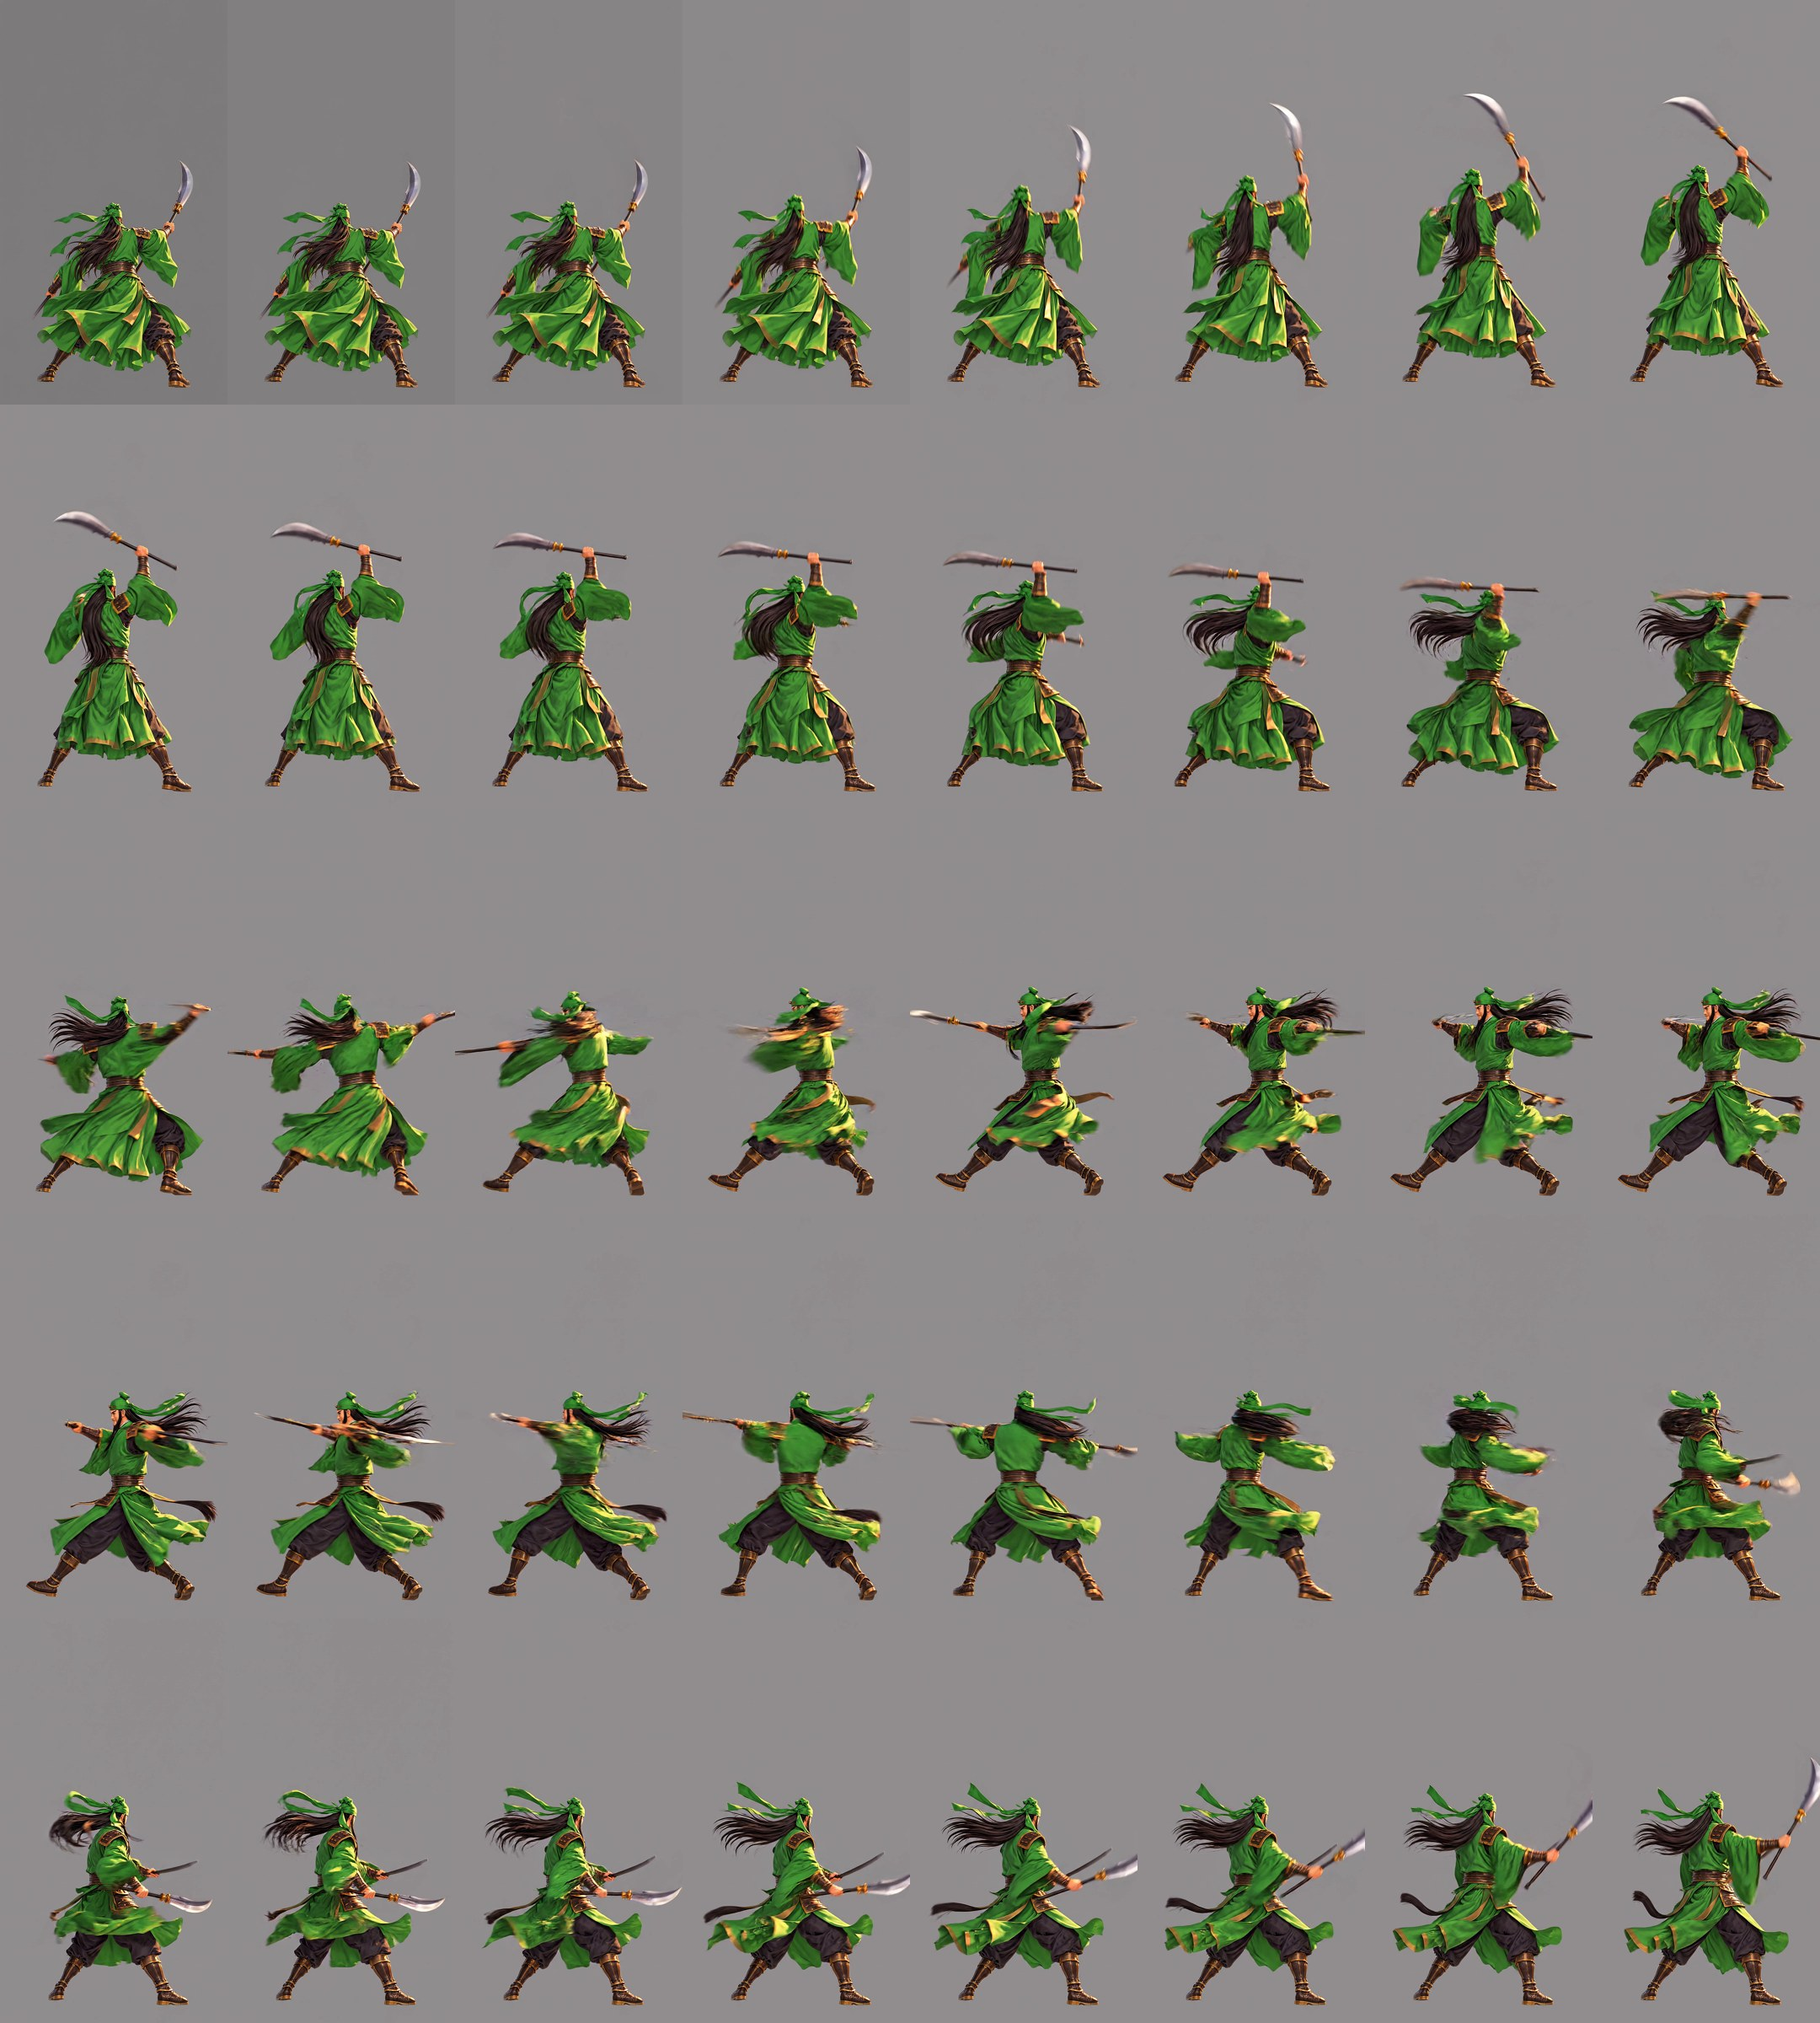
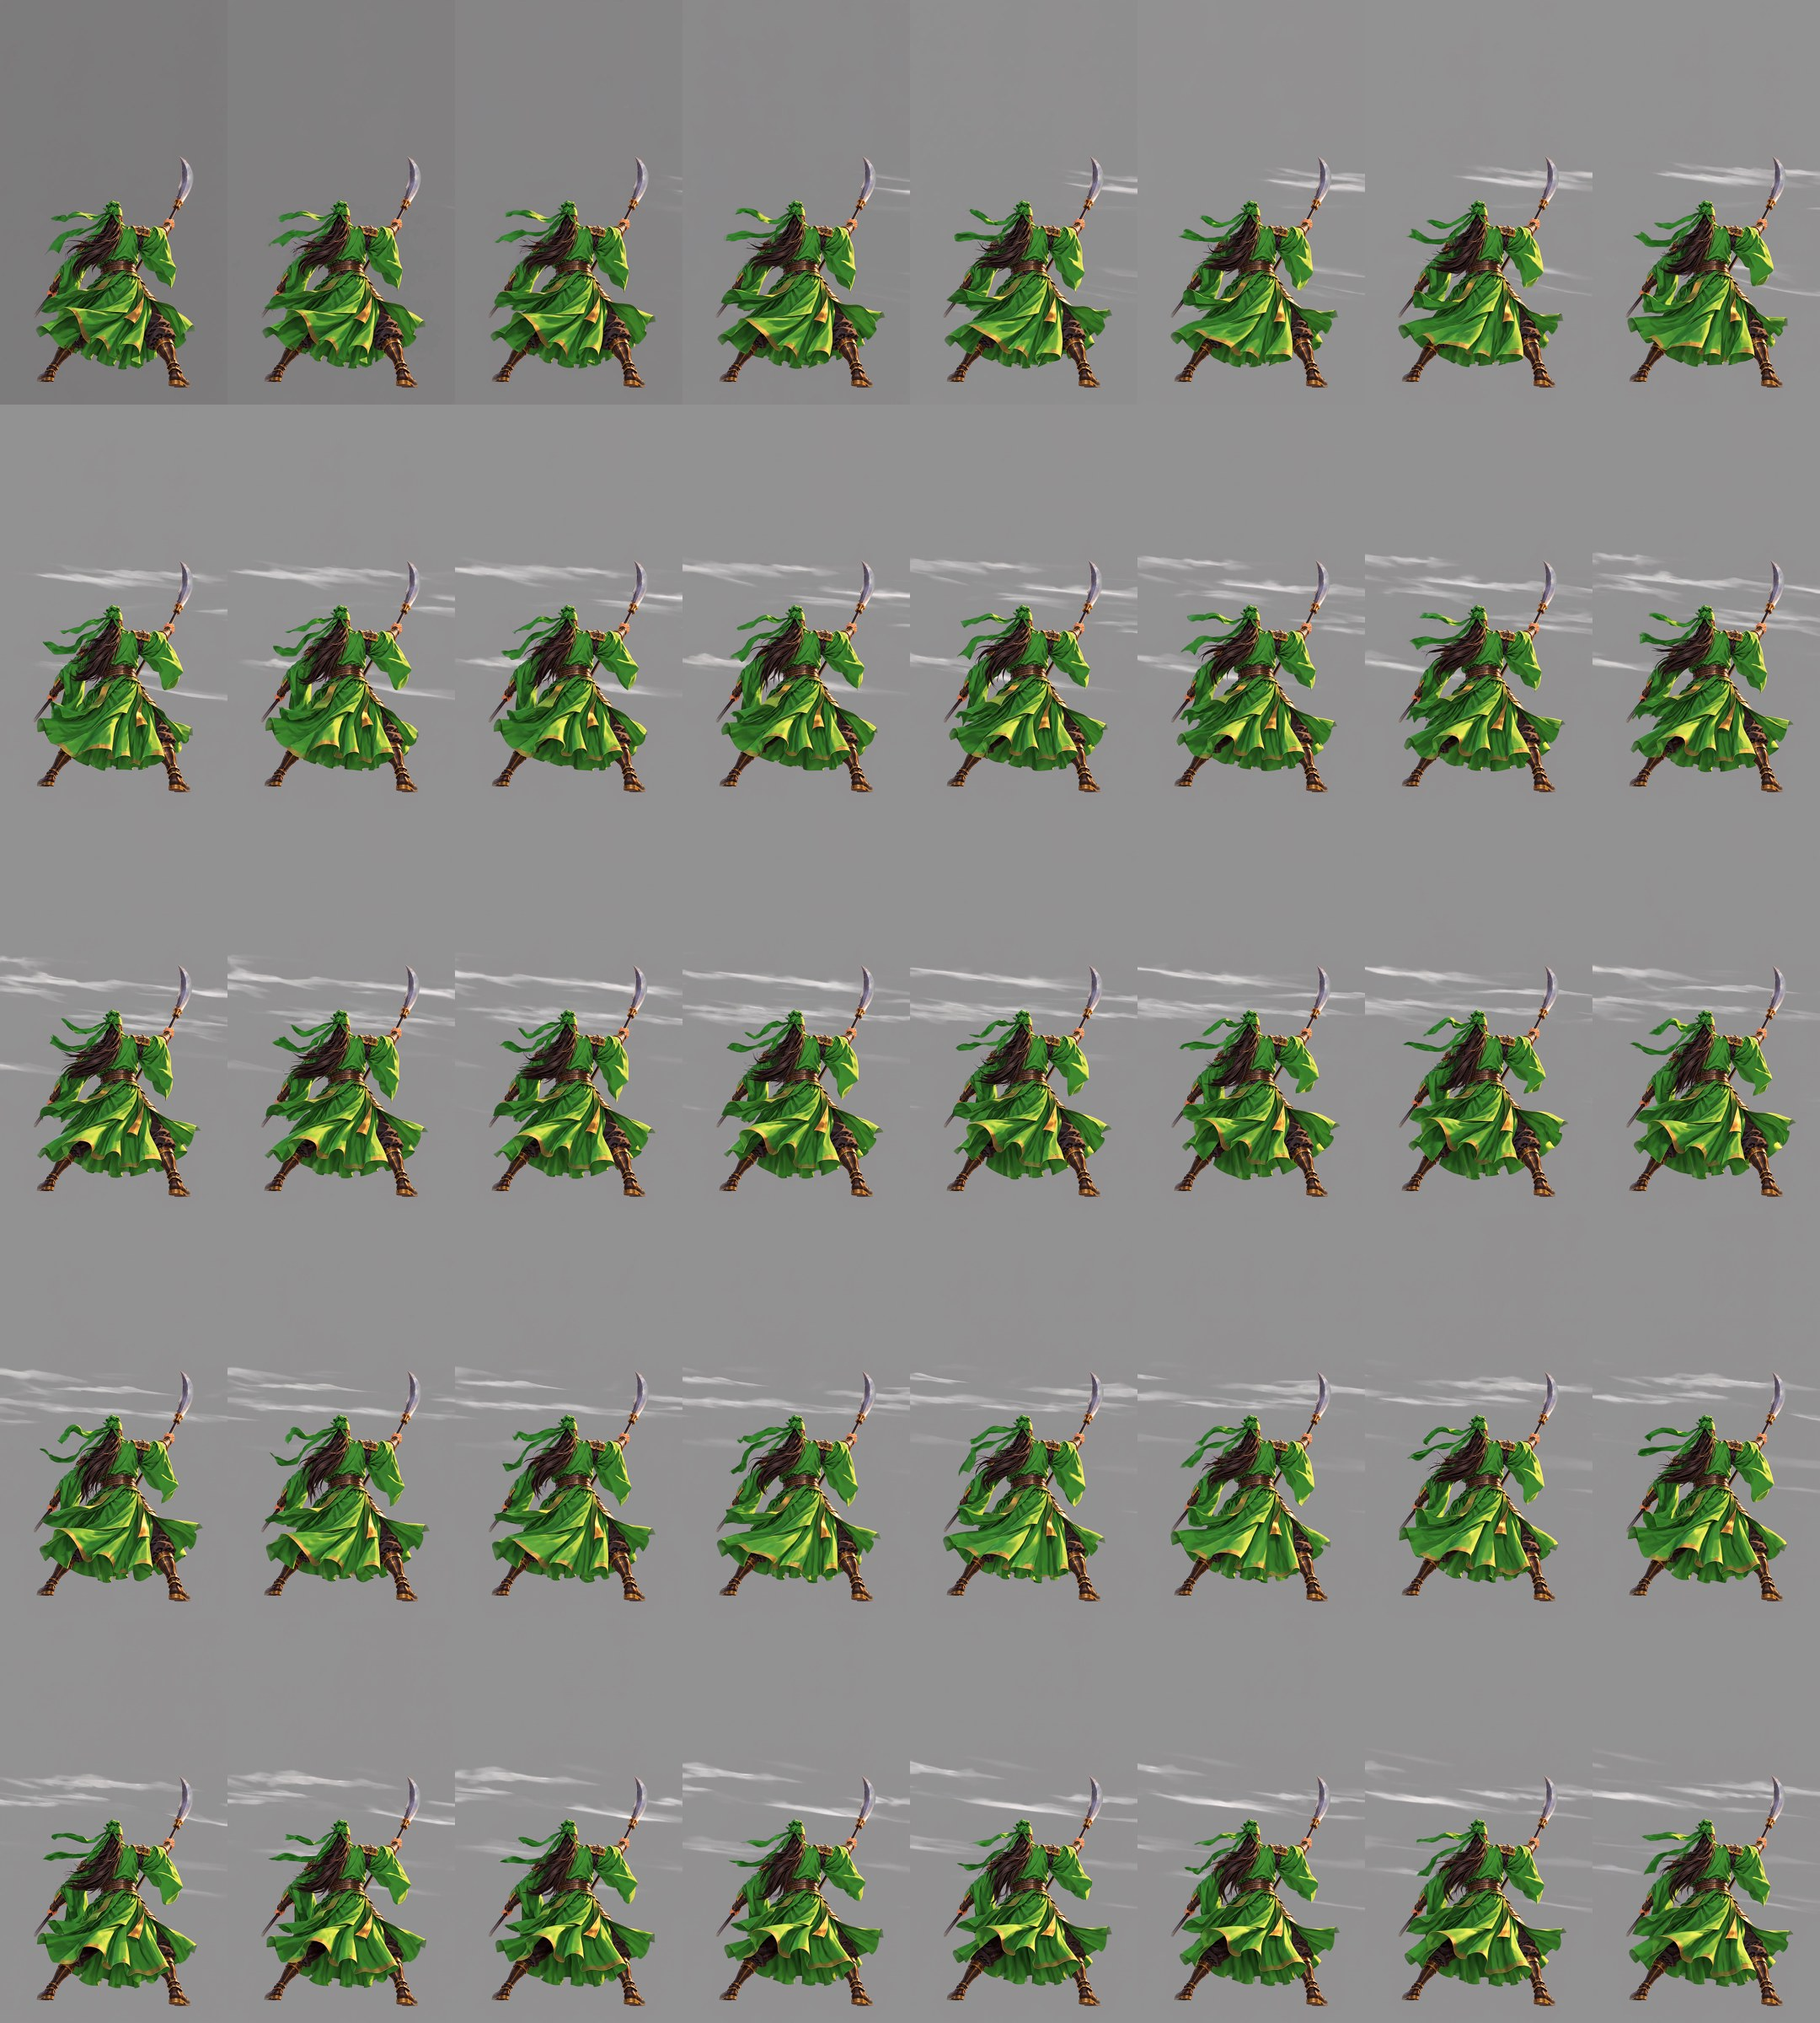
Calm standing idle with wind-blown robes for Liu/Guan/Zhang; per-anim size fix measured from sheets

diff --git a/原型/守关.html b/原型/守关.html
@@ -2131,7 +2131,7 @@ function drawGenerals() {
     if (SHEETS[sk] && ready(IMG[sk])) {
       // 出招演 skill（施法时间加收招 0.2 秒演完 8 帧），普攻演 atk（0.35 秒），平时 idle 来回播
       const nOf = a => SHEETS[sk].anims[a].rects.length;
-      let anim = 'idle', ni = Math.min(3, nOf('idle')), fr = ((G.t * 2.2 + i * 1.3) % (2 * ni - 2)); if (fr > ni - 1) fr = 2 * ni - 2 - fr;   /* 10-27 用户：「待机应该是站立，衣服随风飘扬，不要动来动去像个小丑」——只用开头站定的三帧慢慢来回 */
+      let anim = 'idle', ni = nOf('idle'), fr = ((G.t * 6 + i * 3) % (2 * ni - 2)); if (fr > ni - 1) fr = 2 * ni - 2 - fr;   /* 10-27 用户：「待机应该是站立，衣服随风飘扬，不要动来动去像个小丑」——只用开头站定的三帧慢慢来回 */
       if (casting) { anim = 'skill'; fr = G.cast.t / (G.cast.dur + .2) * (nOf('skill') - .01); }
       else if (an) { anim = an.v && SHEETS[sk].anims[an.v] ? an.v : 'atk'; fr = an.t / atkAnim(id) * (nOf(anim) - .01); }
       const sealed = G.seal[i] > 0, rage = id === 'zhang' && G.rageT > 0;
@@ -4162,7 +4162,7 @@ function drawReward() {
 // 神兵（10-25 用户发来三张别家「神兵」截图：「画好不同等级的青龙偃月刀等武器，要越来越绚」）：三人的兵器各画五级（ChatGPT 画、工具/matte_weapons.py 抠，img/wpn_<人><1..5>.png），
 // 兵器精炼等级（INV.up.wpn，三人共用）0–4 对应第 1–5 级的样子，+5 用第 5 级再加一圈金光：凡铁、精钢、龙纹、鎏金、神兵、绝世。
 // 一页：中间一把大的斜着、慢慢浮，身后按等级发光（越高越亮、越多颜色），右边三格换着看三人的；底下写下一级要什么、几天后够，够了就打造
-const G_FIX = { liu: { idle: .74 } };   // 10-27 新录战场人物：刘备待机首帧蹲得低，按它定的比例画出来大一圈（用户：「大小不一？」），缩回和关张一样高
+const G_FIX = { guan: { idle: 1.03, atk: .95 }, zhang: { atk: 1.05 }, liu: { idle: .64 } };   // 按图集里身体高度量出来的（行里像素够多才算身体，兵器细杆不算），让三人待机、普攻一样高   // 10-27 新录战场人物：刘备待机首帧蹲得低，按它定的比例画出来大一圈（用户：「大小不一？」），缩回和关张一样高
 const ARM = { who: 'guan', t0: 0, flash: 0 };
 const WPN = { guan: '青龙偃月刀', zhang: '丈八蛇矛', liu: '雌雄双股剑' }, WPN_TIER = ['凡铁', '精钢', '龙纹', '鎏金', '神兵', '绝世'];
 const WPN_GLOW = { guan: '90,220,170', zhang: '255,120,60', liu: '110,180,255' }, WPN_ROT = { guan: .62, zhang: .62, liu: .14 };   // 双股剑是交叉的一对，只斜一点

diff --git a/工具/veo/cut_generals.py b/工具/veo/cut_generals.py
@@ -22,7 +22,8 @@ SRC = Path(sys.argv[1]); OUT = HERE.parents[1] / '原型' / 'img'
 COLS, ROWS, N, FPS, T0 = 8, 5, 40, 12, .2
 STAND = 260                                        # 人站直缩到 260 像素高（游戏里约 78 点高，三倍屏也够）
 # 每段取哪几帧（在 40 帧里的序号）：待机取前一秒多来回播；普攻、招式取整个动作；受击取前半段
-PICK = {'idle': list(range(0, 16, 2)), 'atk': list(range(0, 36, 3)), 'skill': list(range(0, 40, 3))}
+PICK = {'idle': list(range(12, 40, 2)),   # 10-27 站立待机（衣服随风）：前 12 帧 Veo 从首帧淡入带重影，从 12 起
+        'idle_old': list(range(0, 16, 2)), 'atk': list(range(0, 36, 3)), 'skill': list(range(0, 40, 3))}
 # 受击那三条中途转身、背景忽亮忽暗，城头武将在守关里也不挨打，先不用（10-24）
 # 某条视频坏了（转身、冒烟）时在这里截断：{'guan2_skill': 30}
 END = {'zhang2_skill': 22, 'liu2_skill': 26}       # 第三版：张飞吼完后半段转成侧身、刘备旋斩完转成正面，都只取前面那段
